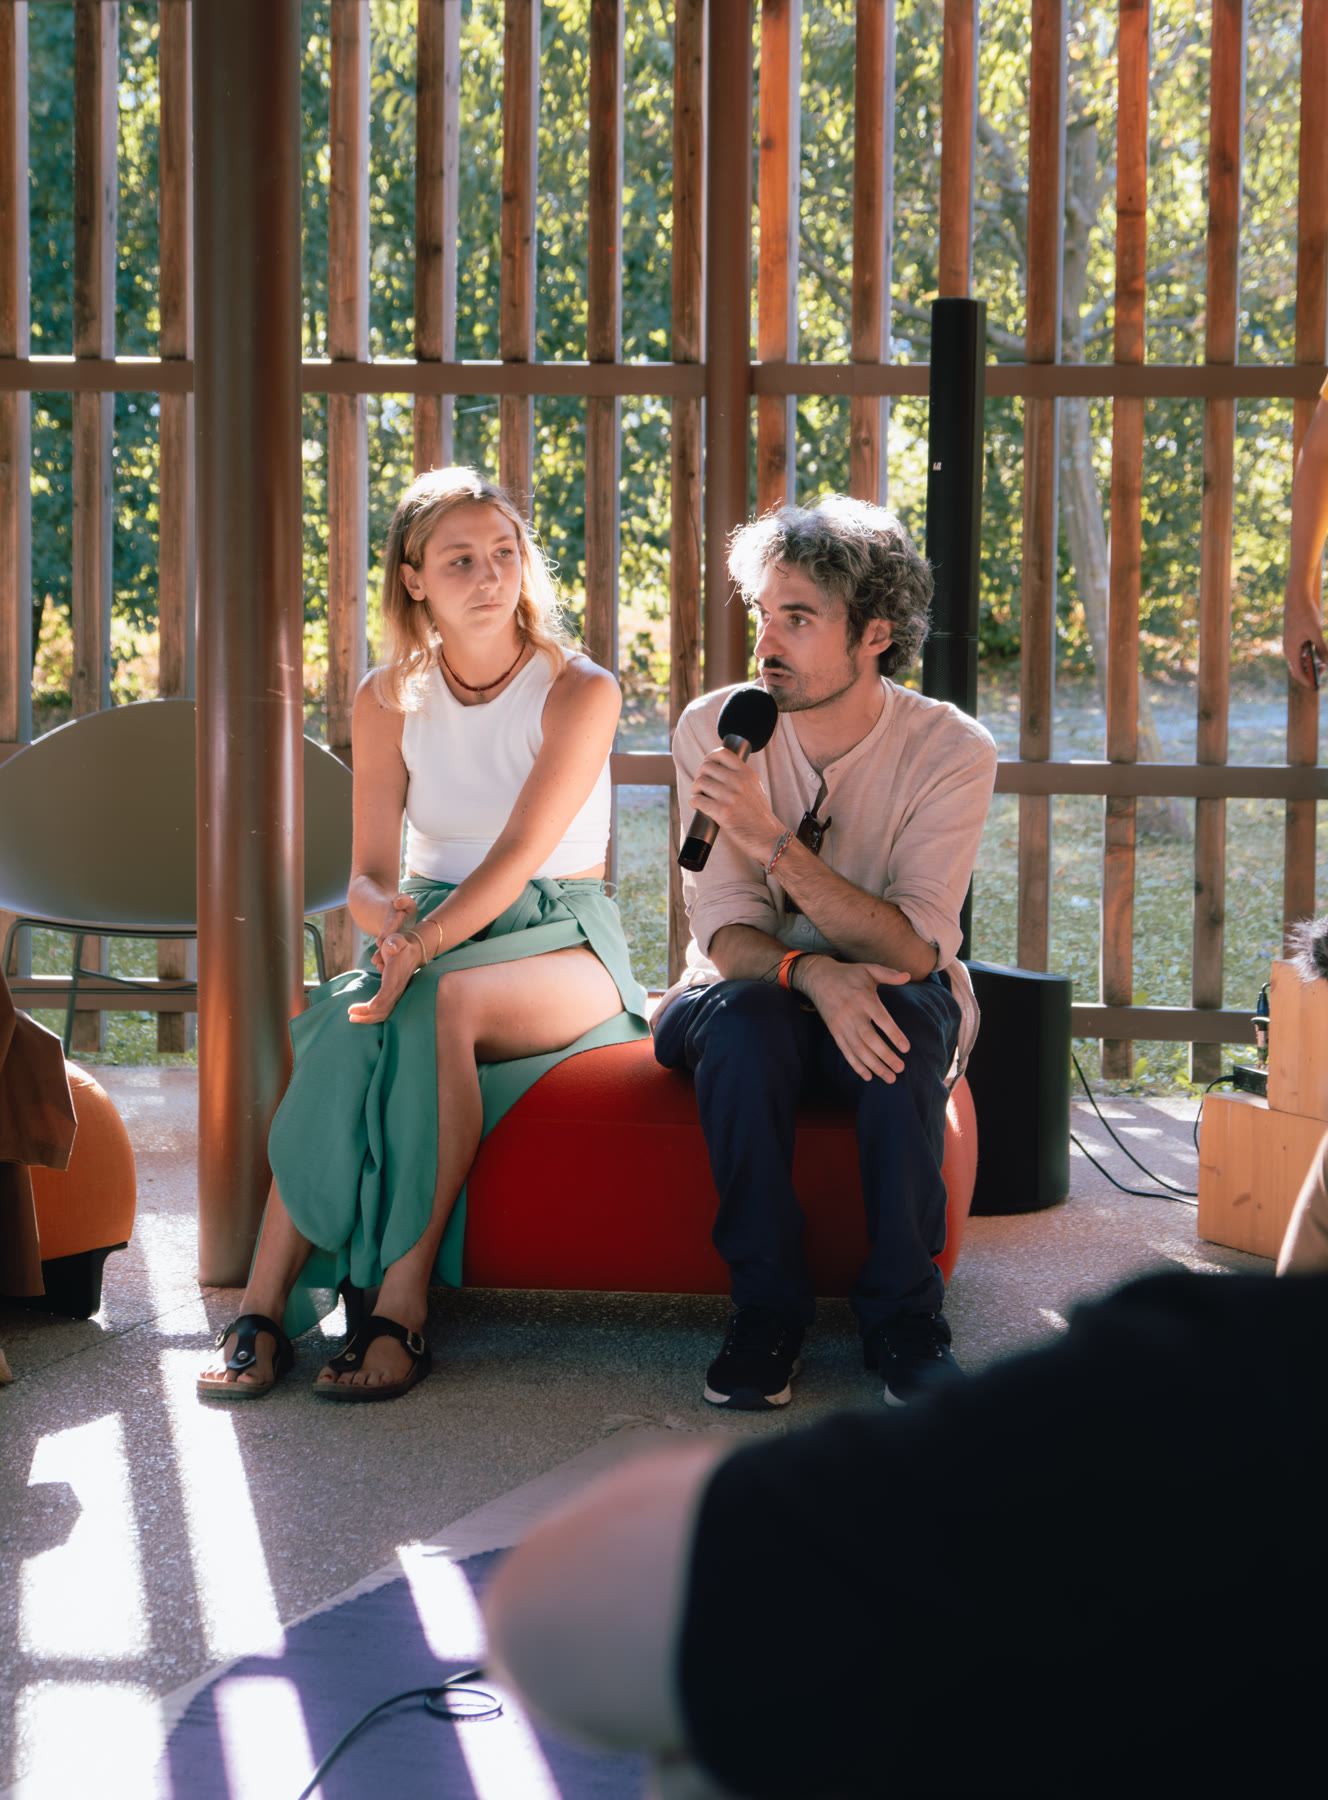
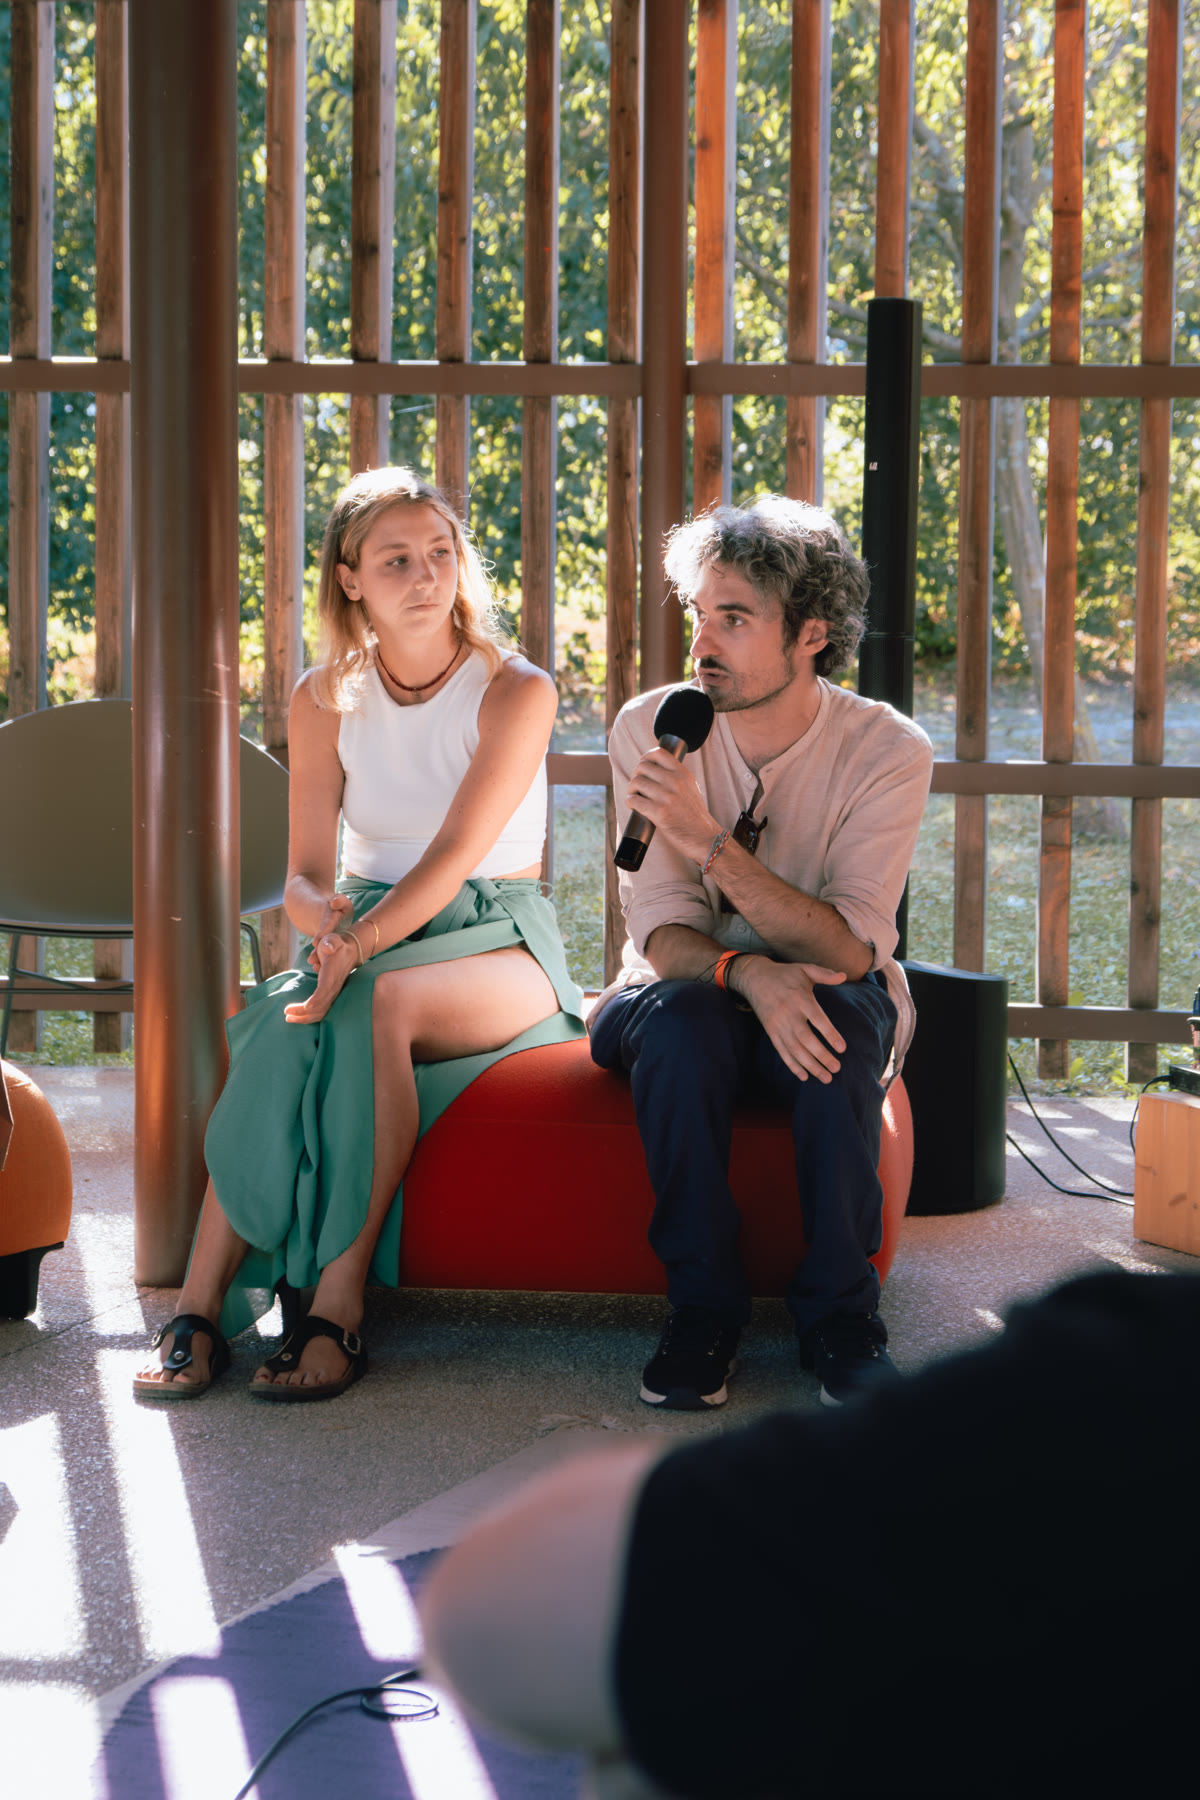
fix(lago): re-crop 3 outlier photos to match the grid's 2:3 ratio
Three shots (panel-talk, sneaker-on-stump, seated-portrait) were shot
in a different in-camera aspect ratio than the rest of the set, so
the grid cells were slightly uneven. Re-cropped each from its raw
source (not the already-compressed web version) with a centered trim
that clears the subject with margin, then re-exported through the
same web pipeline as the other photos.

diff --git a/portfolio.html b/portfolio.html
@@ -580,9 +580,11 @@
                         blocks: [
                             {
                                 type: "credits",
-                                role: "Study design and statistical analysis (experimental design, SPSS, linear mixed-effects model).",
-                                team: ["Grigoris Bodiotis", "Giovanni De Conti", "Yutong Luo", "Menno Poorthuis"],
-                                context: "IDEM220 — \"When Images Remain\", 2025. Poster and information design as the group's synthesis deliverable."
+                                items: [
+                                    { label: "My role", value: "Study design and statistical analysis (experimental design, SPSS, linear mixed-effects model)." },
+                                    { label: "Team", value: "Grigoris Bodiotis · Giovanni De Conti · Yutong Luo · Menno Poorthuis" },
+                                    { label: "Context", value: "IDEM220 — \"When Images Remain\", 2025. Poster and information design as the group's synthesis deliverable." }
+                                ]
                             }
                         ]
                     }
@@ -592,14 +594,14 @@
                 basePath: "Immagini/Portfolio images/05 Lago Film Fest 2026 x ID Eight/",
                 dims: {
                     "hero-boat-group.jpg": [1800, 1200],
-                    "01-panel-talk.jpg": [1328, 1800],
+                    "01-panel-talk.jpg": [1200, 1800],
                     "02-holding-sneakers.jpg": [1200, 1800],
                     "03-staff-badge-and-sneaker.jpg": [1200, 1800],
                     "04-lake.jpg": [1200, 1800],
                     "05-panel-backdrop.jpg": [1200, 1800],
                     "06-portrait-mic.jpg": [1200, 1800],
-                    "07-sneaker-on-stump.jpg": [1340, 1800],
-                    "08-seated-portrait.jpg": [1370, 1800],
+                    "07-sneaker-on-stump.jpg": [1200, 1800],
+                    "08-seated-portrait.jpg": [1200, 1800],
                     "09-staff-portrait.jpg": [1200, 1800],
                     "10-crowd.jpg": [1200, 1800],
                     "11-portrait-mic-mushroom.jpg": [1200, 1800],
@@ -635,6 +637,20 @@
                                     "Portrait of a man speaking into a microphone on a festival panel, mushroom-illustration poster behind him.",
                                     "Portrait of a man in a mushroom-print shirt sitting in the open trunk of a car, ID Eight sneakers visible.",
                                     "Portrait of a woman on a park bench in a graphic t-shirt, ID Eight sneakers in the foreground."
+                                ]
+                            }
+                        ]
+                    },
+                    {
+                        title: "Credits",
+                        blocks: [
+                            {
+                                type: "credits",
+                                items: [
+                                    { label: "Camera", value: "Fujifilm X-T3" },
+                                    { label: "Lens", value: "Fujinon XF 18-55mm F2.8-4 R LM OIS" },
+                                    { label: "Location", value: "Lago Film Fest 2026, Revine Lago (TV)" },
+                                    { label: "Approach", value: "Natural light, documentary approach — candid festival moments alongside a few styled product shots for the ID Eight sneaker collab, no constructed poses." }
                                 ]
                             }
                         ]
@@ -847,15 +863,14 @@
                     } else if (block.type === "credits") {
                         const credits = document.createElement("div");
                         credits.className = "panel-story-credits";
-                        const role = document.createElement("p");
-                        role.innerHTML = "<strong>My role:</strong> " + block.role;
-                        credits.appendChild(role);
-                        const team = document.createElement("p");
-                        team.innerHTML = "<strong>Team:</strong> " + block.team.join(" · ");
-                        credits.appendChild(team);
-                        const context = document.createElement("p");
-                        context.innerHTML = "<strong>Context:</strong> " + block.context;
-                        credits.appendChild(context);
+                        block.items.forEach(function (item) {
+                            const p = document.createElement("p");
+                            const strong = document.createElement("strong");
+                            strong.textContent = item.label + ":";
+                            p.appendChild(strong);
+                            p.appendChild(document.createTextNode(" " + item.value));
+                            credits.appendChild(p);
+                        });
                         container.appendChild(credits);
                     } else if (block.type === "grid") {
                         const grid = document.createElement("div");
